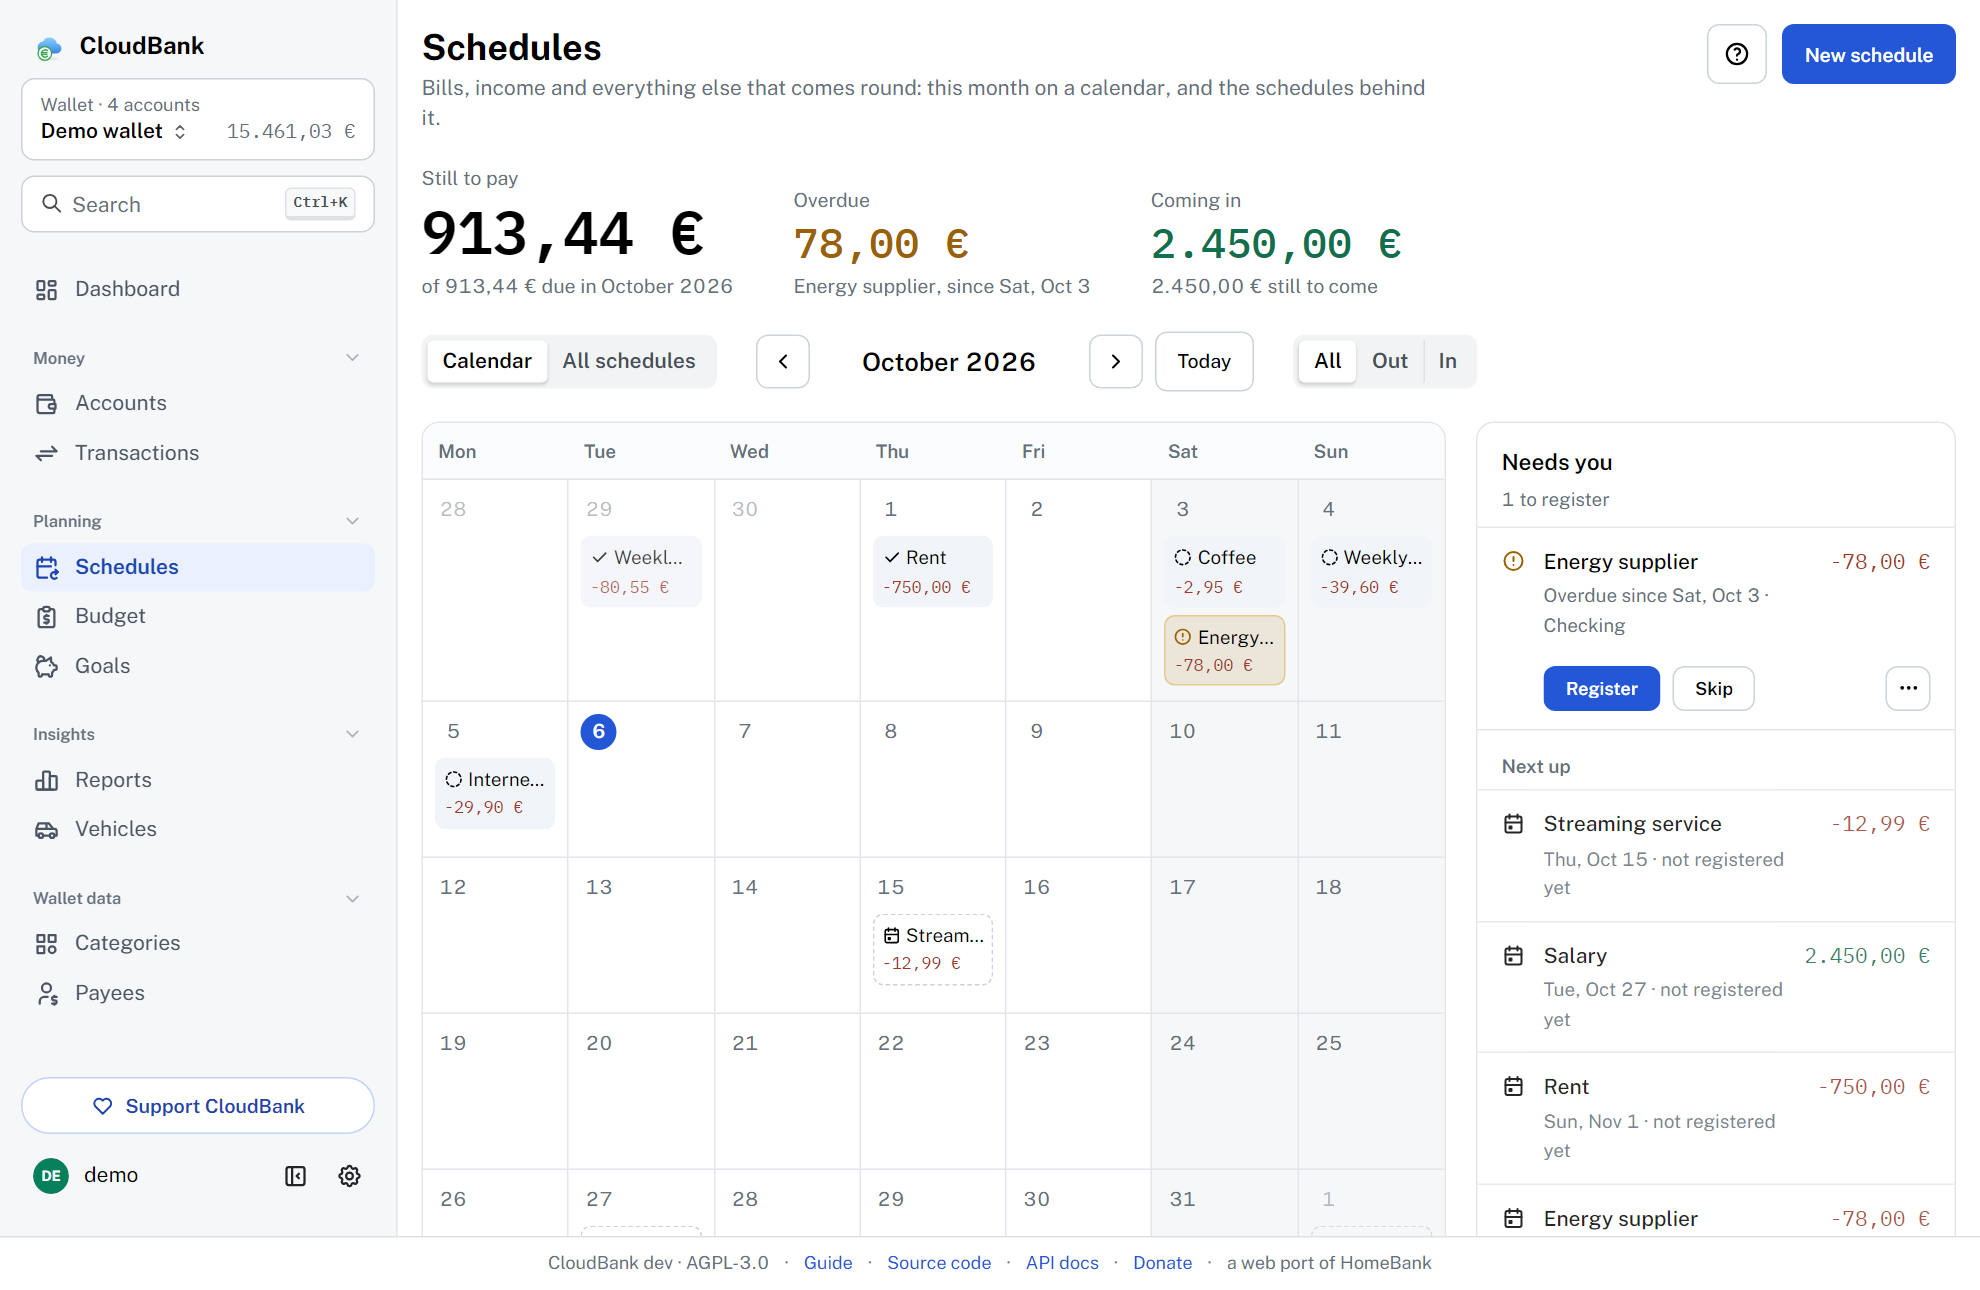
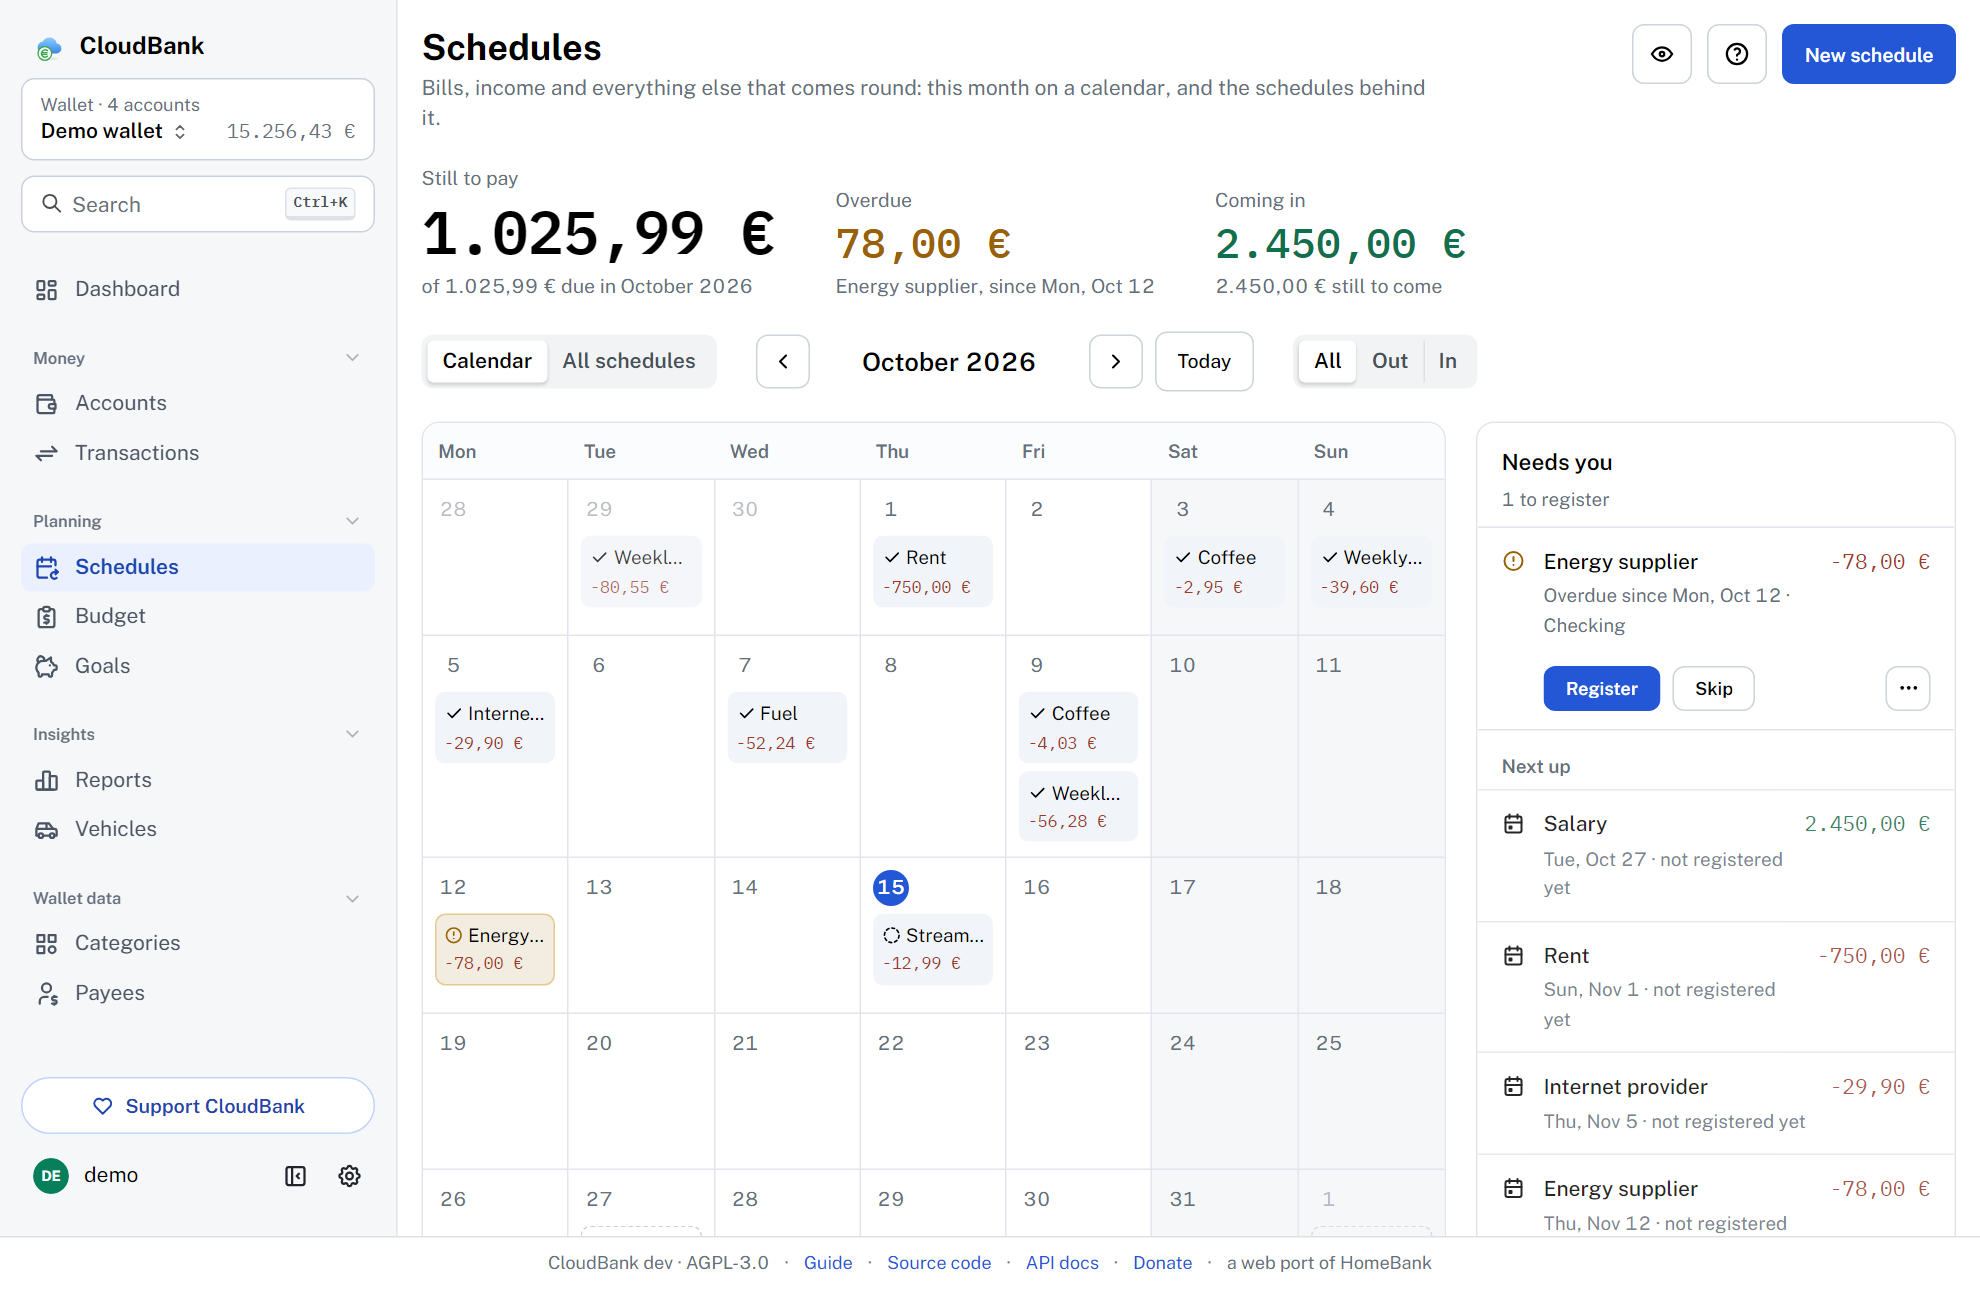
Bring the CloudBank page up to 3.8.0
Six languages, privacy mode and single sign-on on the CloudBank page and
the home section, two new shots in the reel (privacy mode, the language
cards), and every screenshot retaken on 3.8.0.

diff --git a/cloudbank.html b/cloudbank.html
@@ -63,7 +63,7 @@
           <!-- One child: .state is a flex row, and a bare span would get the gap around it. -->
           <p class="state live">
             <span
-              >Shipping, <span data-cloudbank="stable">v3.7.0</span>. Open source under AGPL-3.0.</span
+              >Shipping, <span data-cloudbank="stable">v3.8.0</span>. Open source under AGPL-3.0.</span
             >
           </p>
           <h1 class="display unfurl"><span>CloudBank</span></h1>
@@ -176,7 +176,8 @@
             <div>
               <dt>Budgets and reports that answer first</dt>
               <dd>
-                A budget that puts what you planned next to what you spent. Reports for where the
+                A budget that puts what you planned next to what you spent, with a tick for how far
+                through the month you are. Reports for where the
                 money went, what came in and went out, what your accounts hold and will hold, and
                 what a car costs, for any month, quarter or year, with saved views and CSV/PNG
                 downloads.
@@ -226,7 +227,23 @@
               <dt>Multi-currency, multi-user</dt>
               <dd>
                 Manual and online (ECB, frankfurter.app) exchange rates, totals that say how many
-                accounts they add up, admin-managed users, a responsive UI, and English and Italian.
+                accounts they add up, admin-managed users and a responsive UI.
+              </dd>
+            </div>
+            <div>
+              <dt>Six languages</dt>
+              <dd>
+                English and Italian, plus Spanish, French, German and Brazilian Portuguese in beta:
+                the whole interface, the reminders and the demo's data. The browser's language
+                picks one on a first visit, and native speakers can send corrections from the app.
+              </dd>
+            </div>
+            <div>
+              <dt>Privacy mode</dt>
+              <dd>
+                One eye beside the ? of every page, or Shift+H, blurs amounts, balances, memos and
+                payees across the app, charts included, so you can show CloudBank to someone
+                without showing your money.
               </dd>
             </div>
           </dl>
@@ -253,6 +270,14 @@
                 loading="lazy"
               />
               <figcaption>Drag, resize and add widgets from a palette.</figcaption>
+            </figure>
+            <figure>
+              <img
+                src="assets/cloudbank-privacy.png"
+                alt="CloudBank dashboard in privacy mode, with the eye button on and every balance, total and account figure blurred while the labels and the chart's bars stay readable"
+                loading="lazy"
+              />
+              <figcaption>Privacy mode — the figures blur, the page keeps its shape.</figcaption>
             </figure>
             <figure>
               <img
@@ -322,6 +347,14 @@
             </figure>
             <figure>
               <img
+                src="assets/cloudbank-languages.png"
+                alt="CloudBank general settings with a card for each of the six languages, the four new ones marked beta"
+                loading="lazy"
+              />
+              <figcaption>Languages — six of them, each by its own name.</figcaption>
+            </figure>
+            <figure>
+              <img
                 src="assets/cloudbank-export.png"
                 alt="CloudBank import and export settings with HomeBank file import, backup and restore"
                 loading="lazy"
@@ -345,6 +378,13 @@
               <dd>
                 Optional per-user TOTP with authenticator apps — QR enrolment, one-time recovery
                 codes and a two-step login.
+              </dd>
+            </div>
+            <div>
+              <dt>Single sign-on</dt>
+              <dd>
+                Sign in through Authelia, Authentik, Keycloak or Google, next to passwords or in
+                their place, with one-time recovery codes for the day the provider does not answer.
               </dd>
             </div>
             <div>
@@ -437,7 +477,7 @@ volumes:
             <tr>
               <th scope="row">Stable, <code>:main</code></th>
               <td>
-                <span data-cloudbank="stable">v3.7.0</span>, published
+                <span data-cloudbank="stable">v3.8.0</span>, published
                 <span data-cloudbank-date="stable">October 2026</span>
               </td>
             </tr>

diff --git a/index.html b/index.html
@@ -308,7 +308,7 @@
             <span class="name">CloudBank</span>
             <span class="what">Personal finance manager, open source</span>
             <span class="state live">
-              <span>Shipping, <span data-cloudbank="stable">v3.7.0</span></span>
+              <span>Shipping, <span data-cloudbank="stable">v3.8.0</span></span>
             </span>
           </a>
           <a
@@ -347,14 +347,15 @@
             <h2>CloudBank</h2>
             <p>
               A free, self-hosted personal finance manager — a from-scratch web port of
-              <strong>HomeBank</strong>, now at <span data-cloudbank="stable">v3.7.0</span>. Accounts,
+              <strong>HomeBank</strong>, now at <span data-cloudbank="stable">v3.8.0</span>. Accounts,
               a powerful register, bills on a calendar, budgets and reports that answer first, plus
               automatic bank sync, savings goals and vehicle costs.
             </p>
             <p>
-              It installs to your phone or desktop as a PWA, supports two-factor auth, and offers
-              opt-in AI entry with your own key. One Docker container, your data in a file you
-              control, AGPL-3.0.
+              It speaks six languages, installs to your phone or desktop as a PWA, supports
+              two-factor auth and single sign-on, blurs your figures when someone is looking, and
+              offers opt-in AI entry with your own key. One Docker container, your data in a file
+              you control, AGPL-3.0.
             </p>
             <div class="actions">
               <a class="action key" href="cloudbank.html#demo">Try the demo</a>
